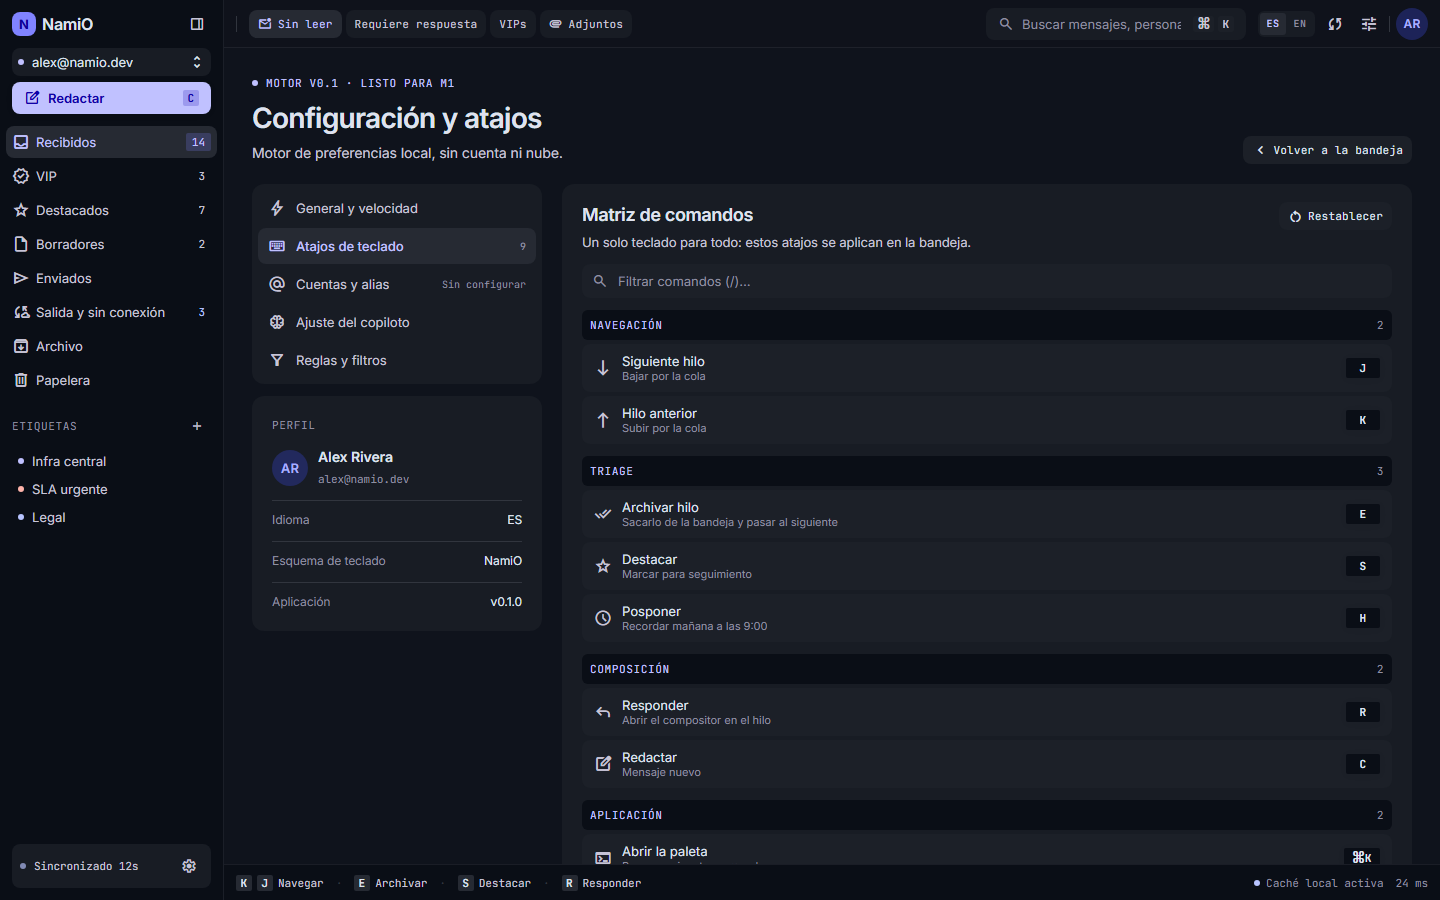
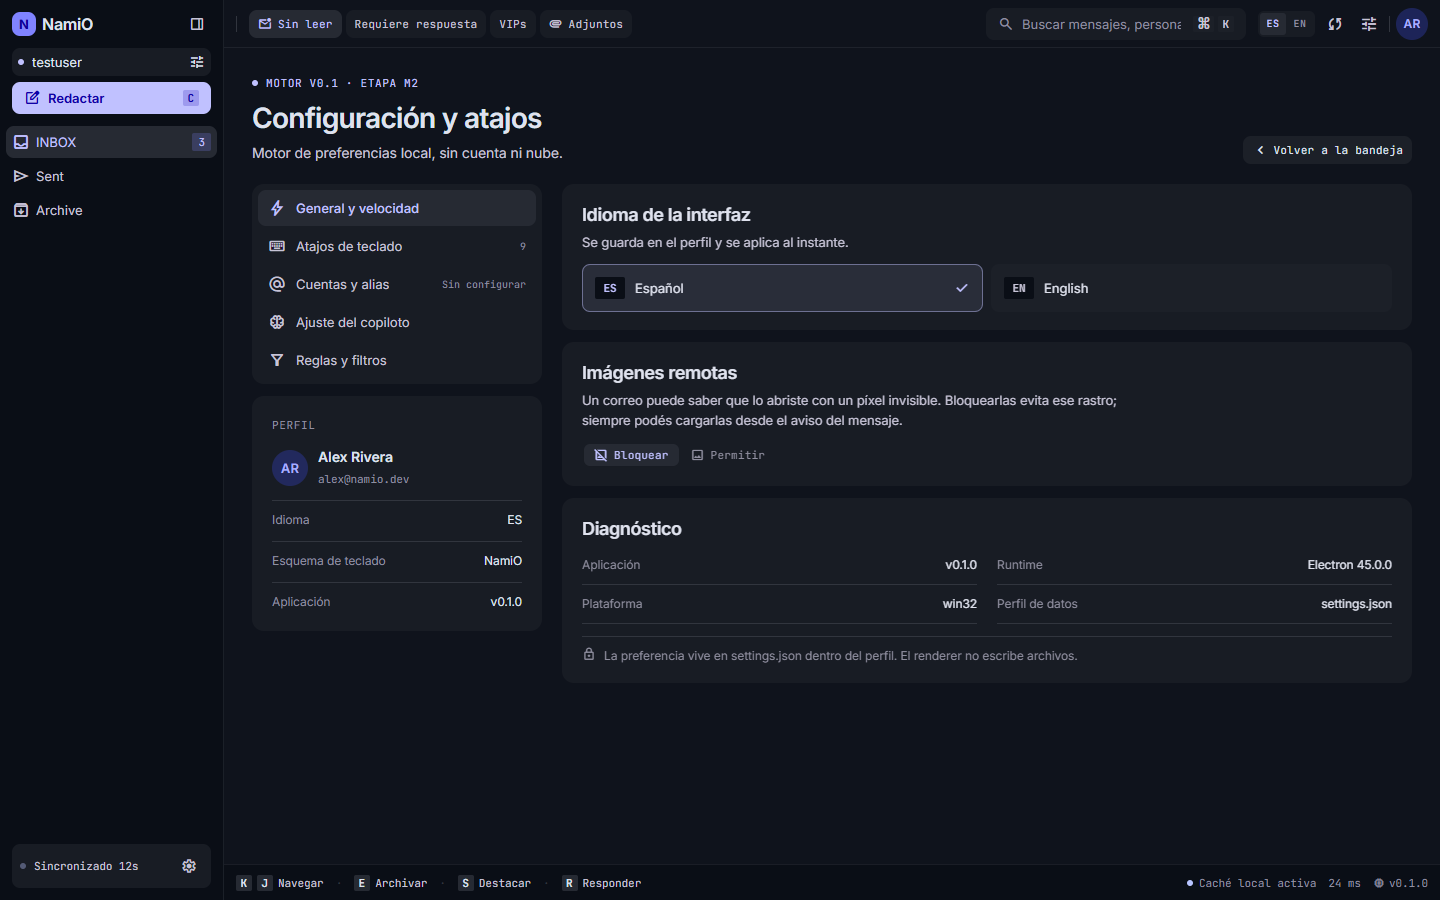
Ajustes: politica de imagenes remotas (bloquear o permitir) persistida

diff --git a/src/renderer/src/components/Settings.tsx b/src/renderer/src/components/Settings.tsx
@@ -3,6 +3,7 @@ import type { CoreStatus } from '@shared/ipc'
 import { ACCOUNT } from '../data/demo'
 import { LOCALES, useI18n, type TranslationKey } from '../i18n'
 import { useShortcuts } from '../settings/ShortcutsProvider'
+import { usePreferences } from '../settings/PreferencesProvider'
 import {
   DEFAULT_BINDINGS,
   SHORTCUTS,
@@ -32,6 +33,7 @@ const NAV: ReadonlyArray<{ id: Section; icon: string; labelKey: TranslationKey }
 export function Settings({ onBack }: SettingsProps): React.JSX.Element {
   const { t, locale, setLocale } = useI18n()
   const { bindings, save, reset } = useShortcuts()
+  const { remoteImages, setRemoteImages } = usePreferences()
   const [section, setSection] = useState<Section>('shortcuts')
   const [query, setQuery] = useState('')
   const [remap, setRemap] = useState<{ action: ShortcutAction; combo: string; conflict: ShortcutAction | null } | null>(
@@ -201,6 +203,35 @@ export function Settings({ onBack }: SettingsProps): React.JSX.Element {
 
           <div className="settings-card">
             <div className="settings-card__head">
+              <div>
+                <h2 className="settings-card__title">{t('settings.images.title')}</h2>
+                <p className="settings-card__subtitle">{t('settings.images.hint')}</p>
+              </div>
+            </div>
+            <div className="seg" role="group" aria-label={t('settings.images.title')}>
+              <button
+                type="button"
+                className={cx('seg__btn', remoteImages === 'block' && 'seg__btn--active')}
+                onClick={() => setRemoteImages('block')}
+                aria-pressed={remoteImages === 'block'}
+              >
+                <Icon name="image_not_supported" size={14} />
+                {t('settings.images.block')}
+              </button>
+              <button
+                type="button"
+                className={cx('seg__btn', remoteImages === 'allow' && 'seg__btn--active')}
+                onClick={() => setRemoteImages('allow')}
+                aria-pressed={remoteImages === 'allow'}
+              >
+                <Icon name="image" size={14} />
+                {t('settings.images.allow')}
+              </button>
+            </div>
+          </div>
+
+          <div className="settings-card">
+            <div className="settings-card__head">
               <h2 className="settings-card__title">{t('settings.general.diagnostics')}</h2>
             </div>
             <dl className="diag">
@@ -265,7 +296,7 @@ export function Settings({ onBack }: SettingsProps): React.JSX.Element {
         <div className="settings__hero-text">
           <span className="settings__eyebrow">
             <span className="dot" />
-            {t('settings.engine')}
+            {t('settings.engine', { stage: status?.stage ?? '—' })}
           </span>
           <h1 className="settings__title">{t('settings.title')}</h1>
           <p className="settings__subtitle">{t('settings.subtitle')}</p>

diff --git a/src/renderer/src/components/EmailBody.tsx b/src/renderer/src/components/EmailBody.tsx
@@ -1,6 +1,7 @@
 import DOMPurify from 'dompurify'
-import { useMemo, useRef, useState } from 'react'
+import { useEffect, useMemo, useRef, useState } from 'react'
 import { useI18n } from '../i18n'
+import { usePreferences } from '../settings/PreferencesProvider'
 import { Icon } from './Icon'
 
 interface EmailBodyProps {
@@ -71,12 +72,20 @@ function buildDocument(body: string, allowImages: boolean): string {
 
 export function EmailBody({ html }: EmailBodyProps): React.JSX.Element {
   const { t } = useI18n()
+  const { remoteImages } = usePreferences()
   const frameRef = useRef<HTMLIFrameElement>(null)
-  const [showImages, setShowImages] = useState(false)
+  const [allowOverride, setAllowOverride] = useState<boolean | null>(null)
   const [height, setHeight] = useState(320)
 
-  const prepared = useMemo(() => prepare(sanitize(html), showImages), [html, showImages])
-  const documentHtml = useMemo(() => buildDocument(prepared.body, showImages), [prepared, showImages])
+  // La preferencia manda; el override es solo para este mensaje. Si el usuario
+  // cambia la preferencia mientras lee, se vuelve a ella.
+  useEffect(() => {
+    setAllowOverride(null)
+  }, [remoteImages, html])
+
+  const allowImages = allowOverride ?? remoteImages === 'allow'
+  const prepared = useMemo(() => prepare(sanitize(html), allowImages), [html, allowImages])
+  const documentHtml = useMemo(() => buildDocument(prepared.body, allowImages), [prepared, allowImages])
 
   const handleLoad = (): void => {
     const frame = frameRef.current
@@ -108,7 +117,7 @@ export function EmailBody({ html }: EmailBodyProps): React.JSX.Element {
         <div className="email-banner">
           <Icon name="image_not_supported" size={15} />
           <span>{t('mail.imagesBlocked', { count: prepared.blocked })}</span>
-          <button className="btn btn--primary" type="button" onClick={() => setShowImages(true)}>
+          <button className="btn btn--primary" type="button" onClick={() => setAllowOverride(true)}>
             {t('mail.showImages')}
           </button>
         </div>

diff --git a/src/renderer/src/settings/PreferencesProvider.tsx b/src/renderer/src/settings/PreferencesProvider.tsx
@@ -1,0 +1,43 @@
+import { createContext, useCallback, useContext, useEffect, useMemo, useState } from 'react'
+import type { RemoteImagePolicy } from '@shared/ipc'
+
+interface PreferencesValue {
+  remoteImages: RemoteImagePolicy
+  setRemoteImages: (policy: RemoteImagePolicy) => void
+}
+
+const PreferencesContext = createContext<PreferencesValue | null>(null)
+
+/**
+ * Preferencias de privacidad compartidas entre Ajustes y el visor de correos.
+ * Persisten en settings.json por IPC, como el idioma y los atajos.
+ */
+export function PreferencesProvider({ children }: { children: React.ReactNode }): React.JSX.Element {
+  const [remoteImages, setRemoteImagesState] = useState<RemoteImagePolicy>('block')
+
+  useEffect(() => {
+    window.api
+      ?.getSettings?.()
+      .then((settings) => {
+        if (settings?.remoteImages === 'allow' || settings?.remoteImages === 'block') {
+          setRemoteImagesState(settings.remoteImages)
+        }
+      })
+      .catch(() => undefined)
+  }, [])
+
+  const setRemoteImages = useCallback((policy: RemoteImagePolicy) => {
+    setRemoteImagesState(policy)
+    window.api?.setSettings?.({ remoteImages: policy }).catch(() => undefined)
+  }, [])
+
+  const value = useMemo<PreferencesValue>(() => ({ remoteImages, setRemoteImages }), [remoteImages, setRemoteImages])
+
+  return <PreferencesContext.Provider value={value}>{children}</PreferencesContext.Provider>
+}
+
+export function usePreferences(): PreferencesValue {
+  const value = useContext(PreferencesContext)
+  if (!value) throw new Error('usePreferences debe usarse dentro de <PreferencesProvider>')
+  return value
+}

diff --git a/src/renderer/src/i18n/es.ts b/src/renderer/src/i18n/es.ts
@@ -189,7 +189,7 @@ export const es = {
 
   'settings.title': 'Configuración y atajos',
   'settings.subtitle': 'Motor de preferencias local, sin cuenta ni nube.',
-  'settings.engine': 'Motor v0.1 · listo para M1',
+  'settings.engine': 'Motor v0.1 · etapa {stage}',
   'settings.back': 'Volver a la bandeja',
   'settings.nav.general': 'General y velocidad',
   'settings.nav.shortcuts': 'Atajos de teclado',
@@ -205,6 +205,10 @@ export const es = {
   'settings.profile.layoutValue': 'NamiO',
   'settings.general.language': 'Idioma de la interfaz',
   'settings.general.languageHint': 'Se guarda en el perfil y se aplica al instante.',
+  'settings.images.title': 'Imágenes remotas',
+  'settings.images.hint': 'Un correo puede saber que lo abriste con un píxel invisible. Bloquearlas evita ese rastro; siempre podés cargarlas desde el aviso del mensaje.',
+  'settings.images.block': 'Bloquear',
+  'settings.images.allow': 'Permitir',
   'settings.general.diagnostics': 'Diagnóstico',
   'settings.general.app': 'Aplicación',
   'settings.general.runtime': 'Runtime',

diff --git a/src/renderer/src/i18n/en.ts b/src/renderer/src/i18n/en.ts
@@ -186,7 +186,7 @@ export const en: Dictionary = {
 
   'settings.title': 'Settings & shortcuts',
   'settings.subtitle': 'Local preferences engine, no account and no cloud.',
-  'settings.engine': 'Engine v0.1 · M1 ready',
+  'settings.engine': 'Engine v0.1 · stage {stage}',
   'settings.back': 'Back to inbox',
   'settings.nav.general': 'General & Speed',
   'settings.nav.shortcuts': 'Keyboard Shortcuts',
@@ -202,6 +202,10 @@ export const en: Dictionary = {
   'settings.profile.layoutValue': 'NamiO',
   'settings.general.language': 'Interface language',
   'settings.general.languageHint': 'Stored in the profile and applied instantly.',
+  'settings.images.title': 'Remote images',
+  'settings.images.hint': 'An email can tell you opened it with an invisible pixel. Blocking them avoids that trail; you can always load them from the message notice.',
+  'settings.images.block': 'Block',
+  'settings.images.allow': 'Allow',
   'settings.general.diagnostics': 'Diagnostics',
   'settings.general.app': 'Application',
   'settings.general.runtime': 'Runtime',

diff --git a/src/renderer/src/main.tsx b/src/renderer/src/main.tsx
@@ -11,6 +11,7 @@ import './styles/app.css'
 import App from './App'
 import { I18nProvider } from './i18n'
 import { ShortcutsProvider } from './settings/ShortcutsProvider'
+import { PreferencesProvider } from './settings/PreferencesProvider'
 
 const container = document.getElementById('root')
 if (!container) throw new Error('Falta el nodo #root en index.html')
@@ -19,7 +20,9 @@ createRoot(container).render(
   <StrictMode>
     <I18nProvider>
       <ShortcutsProvider>
-        <App />
+        <PreferencesProvider>
+          <App />
+        </PreferencesProvider>
       </ShortcutsProvider>
     </I18nProvider>
   </StrictMode>

diff --git a/src/shared/ipc.ts b/src/shared/ipc.ts
@@ -42,7 +42,11 @@ export interface AppSettings {
   shortcuts?: Record<string, string>
   /** Panel de contexto (IA) visible en la bandeja. */
   contextPanel?: boolean
+  /** Imágenes remotas en el HTML de los correos: bloqueadas salvo que se permita. */
+  remoteImages?: RemoteImagePolicy
 }
+
+export type RemoteImagePolicy = 'block' | 'allow'
 
 /* ---------------------------------------------------------------------------
    IMAP

diff --git a/README.md b/README.md
@@ -179,7 +179,8 @@ En la app: Conectar cuenta → Local (pruebas) → Conectar.
   sin `allow-scripts`) con su propia CSP: `default-src 'none'`, imágenes solo `data:` por defecto, sin
   formularios y con `base-uri 'none'`. Aunque la sanitización fallara, no hay scripts posibles.
 - **Imágenes remotas bloqueadas por defecto**: se reemplazan por un GIF transparente antes de renderizar,
-  así el píxel de tracking nunca se pide. Un banner permite cargarlas solo para ese mensaje.
+  así el píxel de tracking nunca se pide. Un banner permite cargarlas solo para ese mensaje, y en
+  **Ajustes → General** se elige la política global (`Bloquear` o `Permitir`), que se guarda en el perfil.
 - **Links**: los clicks se interceptan y se abren con `shell.openExternal`, que solo acepta `http(s)` y
   `mailto:`. Nada de `javascript:`, `data:` ni `file:`.
 - El correo se dibuja sobre **papel claro** dentro del tema oscuro, como hacen la mayoría de los clientes:
@@ -190,8 +191,7 @@ En la app: Conectar cuenta → Local (pruebas) → Conectar.
 Verificado: 2 imágenes remotas pasan a `data:`, el click de un link no navega el iframe (queda en
 `about:srcdoc`, o sea que el `preventDefault` corre) y al mostrar imágenes vuelven las URLs reales.
 
-Limitaciones de M2: sin `cid:` (imágenes embebidas como adjunto), sin preferencia "siempre mostrar
-imágenes" y sin zoom de texto.
+Limitaciones de M2: sin `cid:` (imágenes embebidas como adjunto) y sin zoom de texto.
 
 ## Comandos
 
